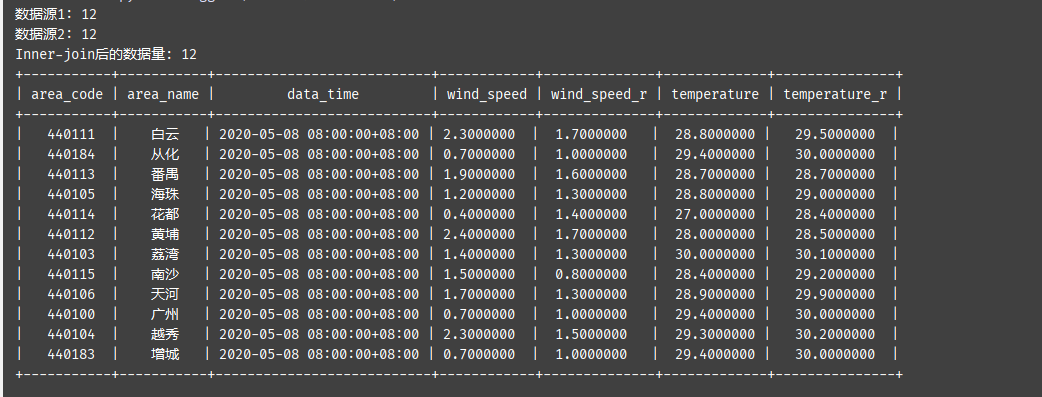
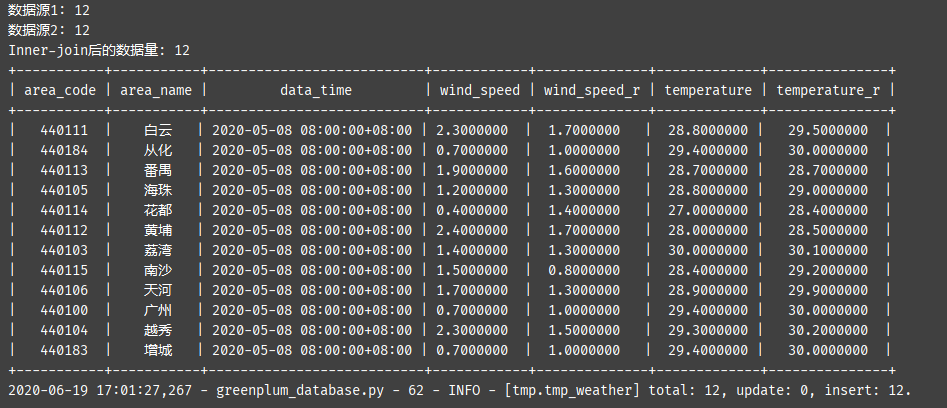
fixed: 修复writer的参数位置错误问题

diff --git a/core/relation_database.py b/core/relation_database.py
@@ -66,7 +66,7 @@ class RelationDatabaseReader(RelationDatabase, DataReader):
 class RelationDatabaseWriter(RelationDatabase, DataWriter):
     def __init__(self, db_type, logger=None, enable_thread=False):
         RelationDatabase.__init__(self, db_type)
-        DataWriter.__init__(self, logger, enable_thread)
+        DataWriter.__init__(self, enable_thread, logger)
         self.table_name = ""
         self.sql = ""
         self._batch_size = 100

diff --git a/README.md b/README.md
@@ -62,9 +62,9 @@ dp.write() \
     .with_data(data3_3) \
     .to_rdb(db_type="greenplum") \
     .connect(**target_db) \
-    .to_table("tmp.wms_dp_test") \
+    .to_table("tmp.tmp_weather") \
     .write_mode(WriteMode.upsert) \
-    .upsert_by("data_time", "site_id") \
+    .upsert_by("data_time", "area_code") \
     .conflict_action(
         update_others_columns=True,
         update_time=datetime.now().isoformat()
@@ -72,6 +72,8 @@ dp.write() \
     .start()
 ```
 输出:
+
 ![图片](output.png)
+
 
 
